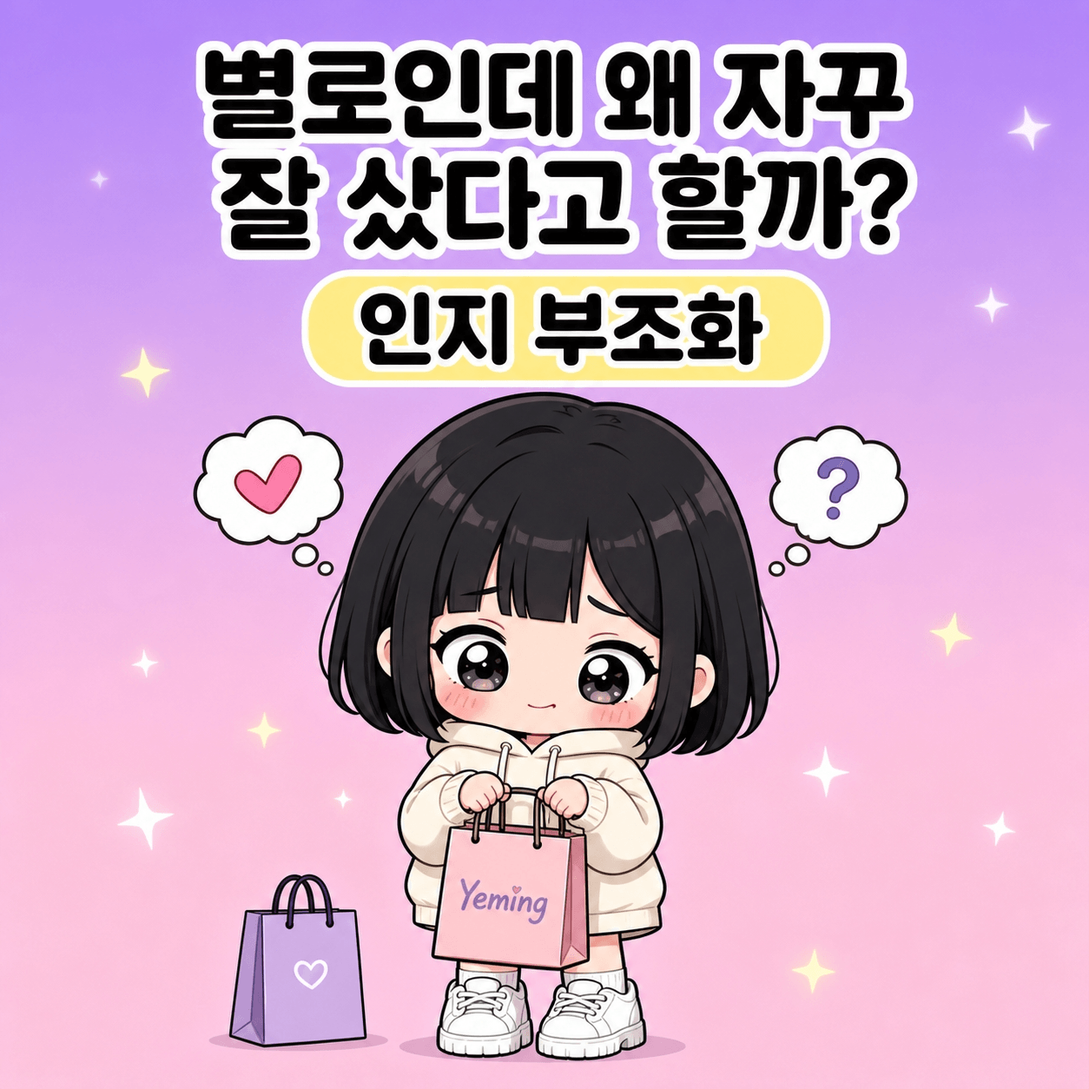
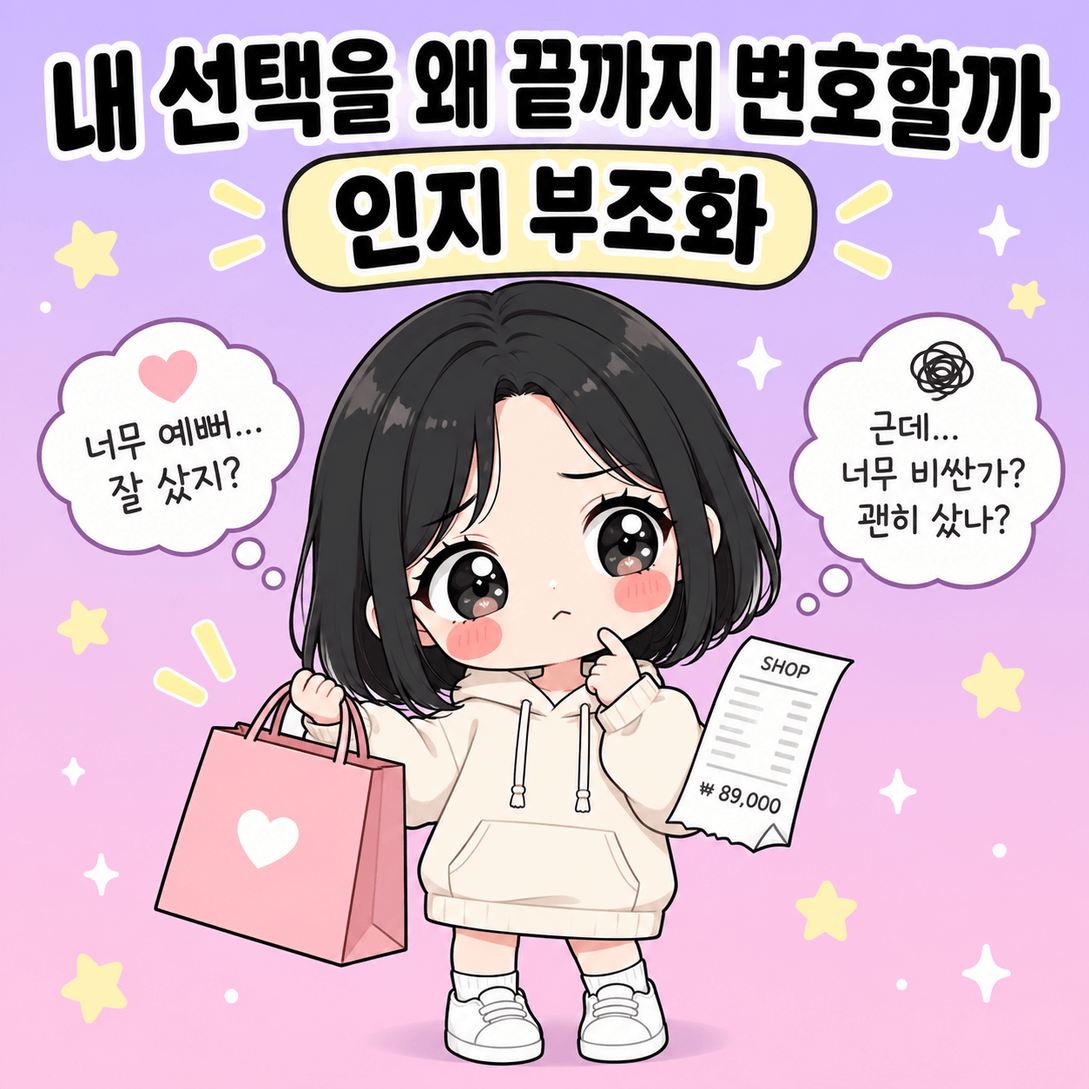
글 수정 발행

diff --git a/posts/cognitive-dissonance-justification.html b/posts/cognitive-dissonance-justification.html
@@ -6,15 +6,18 @@
   <meta name="viewport" content="width=device-width, initial-scale=1.0" />
   <title>인지 부조화로 풀어보는 내 선택을 끝까지 방어하는 마음 | 예밍이네 심리사전</title>
   <meta name="description" content="인지 부조화로 풀어보면 비싸게 산 물건을 끝까지 칭찬하는 마음이 이해돼요. 내 선택을 방어하는 심리를 일상 장면으로 풀고, 잘 다루는 법까지 챙겨가세요." />
-      <link rel="canonical" href="https://yeminga.com/posts/cognitive-dissonance-justification" />
+  <link rel="canonical" href="https://yeminga.com/posts/cognitive-dissonance-justification" />
   <meta property="og:type" content="article" />
   <meta property="og:site_name" content="예밍이네 심리사전" />
   <meta property="og:title" content="인지 부조화로 풀어보는 내 선택을 끝까지 방어하는 마음" />
   <meta property="og:description" content="인지 부조화로 풀어보면 비싸게 산 물건을 끝까지 칭찬하는 마음이 이해돼요. 내 선택을 방어하는 심리를 일상 장면으로 풀고, 잘 다루는 법까지 챙겨가세요." />
-      <meta property="og:url" content="https://yeminga.com/posts/cognitive-dissonance-justification" />
+  <meta property="og:url" content="https://yeminga.com/posts/cognitive-dissonance-justification" />
   <meta property="og:image" content="https://yeminga.com/images/thumb-cognitive-dissonance-justification.png" />
   <meta property="og:locale" content="ko_KR" />
   <link rel="stylesheet" href="/css/style.css" />
+  <!-- HEAD_ADSENSE_START -->
+  <script async src="https://pagead2.googlesyndication.com/pagead/js/adsbygoogle.js?client=ca-pub-4067927801872250" crossorigin="anonymous"></script>
+  <!-- HEAD_ADSENSE_END -->
   <script type="application/ld+json">
   {
     "@context": "https://schema.org",
@@ -29,25 +32,30 @@
         "author": { "@type": "Person", "name": "예밍이" },
         "publisher": { "@type": "Organization", "name": "예밍이네 심리사전" },
         "datePublished": "2026-07-07",
-        "dateModified": "2026-07-07"
+        "dateModified": "2026-09-07",
+        "citation": [
+          "Festinger & Carlsmith, 1959, Cognitive consequences of forced compliance, The Journal of Abnormal and Social Psychology",
+          "McGrath, 2017, Dealing with dissonance: A review of cognitive dissonance reduction, Social and Personality Psychology Compass",
+          "Vaidis et al., 2024, A Multilab Replication of the Induced-Compliance Paradigm of Cognitive Dissonance, Advances in Methods and Practices in Psychological Science"
+        ]
       },
       {
         "@type": "FAQPage",
         "mainEntity": [
           {
             "@type": "Question",
-            "name": "인지 부조화는 누구한테나 일어나나요?",
+            "name": "인지 부조화는 누구에게나 똑같이 나타나나요?",
             "acceptedAnswer": {
               "@type": "Answer",
-              "text": "네, 거의 모든 사람에게 일어나요. 생각과 행동이 어긋나는 건 살면서 늘 생기는 일이고, 그때 느끼는 불편함을 줄이려는 건 인간의 기본적인 마음 작동이거든요. 그러니 나만 합리화하나 하고 자책할 필요는 없어요."
+              "text": "그렇게 단정하기는 어려워요. 인지 부조화는 널리 연구된 개념이지만, 어떤 상황에서 얼마나 불편함을 느끼고 어떤 방식으로 줄이는지는 하나로 고정돼 있지 않아요."
             }
           },
           {
             "@type": "Question",
-            "name": "자기 합리화는 무조건 나쁜 건가요?",
+            "name": "1달러 조건이 20달러 조건보다 정말 더 재미있다고 했나요?",
             "acceptedAnswer": {
               "@type": "Answer",
-              "text": "아니에요. 되돌릴 수 없는 선택 앞에서 마음을 다독이는 합리화는 오히려 건강에 도움이 돼요. 문제가 되는 건 정말 바꿔야 할 행동까지 덮어버릴 때예요. 그래서 합리화를 없애기보다, 언제 쓰고 언제 경계할지 구분하는 게 중요해요."
+              "text": "1959년 실험의 즐거움 자기평정 평균은 1달러 조건 +1.35, 20달러 조건 -0.05였어요. 다만 이 수치는 참가자가 -5에서 +5 척도로 답한 자기평정이라는 점까지 같이 봐야 해요."
             }
           },
           {
@@ -55,7 +63,7 @@
             "name": "비싼 물건을 칭찬하는 게 거짓말인가요?",
             "acceptedAnswer": {
               "@type": "Answer",
-              "text": "거짓말은 아니에요. 본인은 진심으로 잘 샀다고 느끼거든요. 마음이 불편함을 줄이려고 평가 자체를 슬쩍 바꿔놓아서, 의식적으로 속이는 게 아니라 진짜로 그렇게 믿게 되는 거예요. 그래서 더 알아채기 어려운 거고요."
+              "text": "꼭 그렇지는 않아요. 선택 뒤 평가가 달라질 수는 있지만, 모든 사람이 같은 방식으로 자기 선택을 좋게 보는 건 아니에요. 인지 부조화는 가능한 설명 중 하나로 보는 편이 맞아요."
             }
           },
           {
@@ -63,15 +71,15 @@
             "name": "고생해서 얻은 걸 더 좋게 평가하는 것도 인지 부조화인가요?",
             "acceptedAnswer": {
               "@type": "Answer",
-              "text": "맞아요. 이렇게 힘들었는데 별로일 리 없어 하고 의미를 부여하는 거죠. 노력과 결과의 어긋남을 줄이려고 결과를 더 높게 평가하는 거예요. 힘들게 들어간 모임이나 오래 준비한 일을 과대평가하게 되는 게 다 이 원리예요."
+              "text": "그렇게 해석할 수 있는 장면이 있어요. 큰 노력과 낮은 만족이 부딪힐 때 결과의 가치를 더 높게 보는 반응이 나타날 수 있거든요. 다만 한 장면만 보고 원인을 확정하진 않는 게 좋아요."
             }
           },
           {
             "@type": "Question",
-            "name": "내가 합리화하는 중인지 어떻게 알 수 있나요?",
+            "name": "내가 합리화하는 중인지 어떻게 알아차리나요?",
             "acceptedAnswer": {
               "@type": "Answer",
-              "text": "어떤 선택을 유독 과하게 변호하고 단점은 아예 안 보려 한다면 합리화 신호일 수 있어요. 그럴 땐 단점을 일부러 한 번 인정해보세요. 인정해도 괜찮다면 진짜 좋은 선택이고, 인정하기 불편하다면 합리화 중일 가능성이 커요."
+              "text": "한 가지 신호만으로 판단하긴 어려워요. 장점과 단점을 같은 기준으로 적어보고, 결정 전에 세운 기준과 지금 붙이는 설명이 달라졌는지 비교해보면 선택을 다시 보는 데 도움이 돼요."
             }
           }
         ]
@@ -79,9 +87,6 @@
     ]
   }
   </script>
-  <!-- HEAD_ADSENSE_START -->
-  <script async src="https://pagead2.googlesyndication.com/pagead/js/adsbygoogle.js?client=ca-pub-4067927801872250" crossorigin="anonymous"></script>
-  <!-- HEAD_ADSENSE_END -->
 </head>
 <body>
   <header class="site-header">
@@ -93,11 +98,11 @@
       <input type="checkbox" id="nav-toggle" class="nav-toggle" />
       <label for="nav-toggle" class="nav-toggle-label" aria-label="메뉴 열기">☰</label>
       <nav class="main-nav" aria-label="주요 메뉴">
-        <a href="/category/consume/">소비 심리</a>
-        <a href="/category/emotion/">감정과 자아</a>
-        <a href="/category/relation/">인간관계 심리</a>
-        <a href="/about">소개</a>
-      </nav>
+  <a href="/category/consume/">소비 심리</a>
+  <a href="/category/emotion/">감정과 자아</a>
+  <a href="/category/relation/">인간관계 심리</a>
+  <a href="/about">소개</a>
+</nav>
     </div>
   </header>
 
@@ -109,136 +114,152 @@
           <h1>인지 부조화로 풀어보는 내 선택을 끝까지 방어하는 마음</h1>
           <div class="article-meta">
             <span>작성자: 예밍이</span>
-            <time datetime="2026-07-07">2026.07.07</time>
+            <time datetime="2026-07-07">2026. 7. 7.</time>
+            <span class="article-modified">수정: 2026.09.07</span>
           </div>
         </header>
 
-        <div class="article-body">
-          <div class="summary-box">
-            <strong>📌 3줄 요약</strong>
-            <p>비싸게 샀는데 막상 별로인 물건도 "그래도 잘 산 거야" 하고 칭찬하게 되는 건 인지 부조화 때문이에요. 내 생각과 행동이 어긋나면 마음이 불편해지는데, 사람은 보통 행동 대신 생각을 바꿔서 그 불편을 없애거든요. 이걸 알면 내가 왜 자꾸 후회되는 선택을 변호하는지 보이기 시작해요.</p>
-          </div>
+                <div class="article-body">
+          <!-- POST-KIND: CONCEPT -->
+<div class="summary-box">
+  <strong>📌 3줄 요약</strong>
+  <p>인지 부조화는 생각과 행동이 어긋날 때 생기는 불편함이에요. 고전 실험에선 1달러 조건이 과제를 더 좋게 평가했어요. 하지만 해소 방식은 하나가 아니어서 단정은 조심해야 해요.</p>
+</div>
 
-          <p class="hook">큰맘 먹고 지른 옷, 솔직히 별로인 거 알면서도 자꾸 "그래도 잘 샀어" 한 적 있죠.</p>
+<p class="hook">인지 부조화는 후회되는 선택을 유난히 그럴듯하게 만들 때가 있어요.</p>
 
-          <p>이상하잖아요. 마음 한구석은 "이거 좀 후회되는데" 하는데, 입으로는 자꾸 잘 샀다고 우기게 되니까요. 저도 무리해서 산 물건일수록 단점은 못 본 척하고 장점만 떠벌리더라고요. 이게 단순한 정신승리가 아니라, 사람 마음이 불편함을 처리하는 정해진 방식이에요. 그 방식에 이름이 붙어 있는데, 바로 <strong>인지 부조화</strong>예요. 혹시 후회되는 선택일수록 더 열심히 변호하고 있진 않나요?</p>
+<p>큰맘 먹고 산 옷이 막상 기대보다 별로인데도 자꾸 장점만 찾게 되는 장면이 그래요. 마음 한구석에서는 “괜히 샀나” 싶지만, 이미 한 선택을 나쁘게 평가하는 것도 불편하잖아요.</p>
 
-          <h2>인지 부조화가 뭔데요</h2>
+<p>이때 사람은 선택을 다시 보거나, 이유를 덧붙이거나, 행동을 바꾸는 등 여러 방식으로 불편함을 줄일 수 있어요. 그중 선택을 더 좋게 평가하는 방향으로 마음이 움직일 때 <strong>인지 부조화</strong>가 어떻게 작동하는지 이해하기 쉬워져요.</p>
 
-          <p>인지 부조화(cognitive dissonance)는 내 안의 생각, 믿음, 행동이 서로 어긋날 때 느끼는 불편한 마음 상태를 말해요. 심리학자 레온 페스팅거가 널리 알린 개념인데요.</p>
+<h2>인지 부조화는 생각과 행동이 어긋날 때 생겨요</h2>
 
-          <p>핵심은 사람이 이 불편함을 굉장히 싫어한다는 거예요. "나는 합리적인 사람"이라는 믿음과 "비싼데 별로인 걸 샀다"는 사실이 부딪히면 마음이 삐걱대거든요. 이 삐걱거림을 어떻게든 없애려고 우리 마음이 움직이기 시작해요.</p>
+<p>인지 부조화(cognitive dissonance)는 내 생각이나 믿음, 행동이 서로 맞지 않을 때 생기는 불편한 상태를 가리켜요. “나는 합리적으로 소비해”라는 믿음과 “비싼데 만족스럽지 않은 물건을 샀어”라는 판단이 부딪히면 마음이 매끄럽지 않게 느껴질 수 있죠.</p>
 
-          <p>여기서 흥미로운 게, 불편을 없애는 가장 쉬운 방법이 보통 "생각을 바꾸는 것"이라는 점이에요. 이미 산 물건은 못 무르니까 행동은 못 바꾸잖아요. 그래서 "사실 이거 꽤 괜찮은데?" 하고 평가를 슬쩍 바꿔버리는 거예요. 더 편한 쪽으로요.</p>
+<p>여기서 중요한 건 해소법이 하나로 정해져 있지 않다는 점이에요. 물건을 환불할 수도 있고, 다음 소비 기준을 바꿀 수도 있고, “그래도 이 장점은 괜찮아”라며 평가를 조정할 수도 있어요. 인지 부조화라는 말은 이 가운데 특정 행동 하나가 아니라, 서로 안 맞는 생각과 행동에서 생기는 긴장을 설명하는 개념에 가까워요.</p>
 
-          <p>그러니까 비싼 물건을 칭찬하는 건 거짓말이 아니라, 마음이 균형을 맞추려는 자동 작동이에요. 본인은 진심으로 잘 샀다고 느끼게 돼요. 이 부분이 인지 부조화의 핵심이자 좀 무서운 지점이에요.</p>
+<p>그래서 비싼 물건을 칭찬한다고 곧바로 거짓말이라고 볼 수는 없어요. 반대로 “진심으로 잘 샀다고 믿게 된다”고 모든 소비에 적용할 수도 없고요. 어떤 선택을 더 좋게 보는 변화는 가능한 반응 가운데 하나예요.</p>
 
-          <img src="/images/yeminga-thinking.png" alt="비싸게 산 물건을 칭찬할지 고민하는 예밍이">
+<img src="/images/yeminga-thinking.png" alt="후회되는 소비를 다시 바라보며 생각하는 예밍이">
 
-          <!-- AD:INARTICLE-BLOG-01 -->
+<!-- AD:INARTICLE-BLOG-01 -->
 
-          <h2>마음은 왜 행동 대신 생각을 바꿀까요</h2>
+<h2>왜 선택을 더 좋게 보게 될까요</h2>
 
-          <p>그럼 왜 사람은 행동을 고치는 대신 생각을 비트는 쪽을 택할까요. 여기엔 꽤 합리적인 이유가 있어요.</p>
+<p>Festinger와 Carlsmith의 1959년 실험이 이 장면을 잘 보여줘요. 스탠퍼드 남학생 71명이 참여했고 11명이 제외돼 최종 60명이 분석됐어요. 참가자들은 30분씩 두 가지 단조로운 과제를 한 뒤, 다른 참가자에게 그 일이 재미있었다고 말하는 역할을 맡았어요. 원 논문 정보는 <a href="https://pubmed.ncbi.nlm.nih.gov/13640824/?utm_source=chatgpt.com" target="_blank" rel="noopener">PubMed</a>에서 확인할 수 있어요.</p>
 
-          <p>이미 벌어진 행동은 되돌리기 어렵거든요. 돈은 이미 나갔고, 한 말은 이미 뱉었고, 보낸 시간은 안 돌아와요. 반면 생각이나 평가는 마음만 먹으면 그 자리에서 바꿀 수 있어요. 그러니 비용이 적게 드는 쪽, 즉 생각을 바꾸는 게 더 쉬운 선택이 되는 거죠.</p>
+<p>그 대가가 1달러인 조건과 20달러인 조건이 있었는데, 과제의 즐거움을 -5에서 +5로 평가하게 하자 평균은 통제 조건 -0.45, 1달러 조건 +1.35, 20달러 조건 -0.05였어요. 1달러와 20달러 조건 차이는 p=.03으로 보고됐어요. 적은 보상을 받은 쪽이 과제를 더 긍정적으로 평가한 셈이에요.</p>
 
-          <p>유명한 실험이 하나 있어요. 지루한 작업을 시킨 뒤 다른 사람에게 "재밌었다"고 거짓말하게 했는데, 적은 돈을 받은 사람일수록 그 작업을 진짜로 재밌었다고 평가했어요. 큰돈을 받은 사람은 "돈 때문에 거짓말했지" 하고 핑계가 있었지만, 적은 돈을 받은 사람은 변명거리가 없으니 "사실 재밌었나 봐" 하고 생각 자체를 바꿔버린 거예요.</p>
+<p>다만 여기서 “진짜 재미를 느끼도록 마음이 완전히 바뀌었다”고 읽으면 범위가 넓어져요. 이 연구의 핵심 결과는 과제가 얼마나 즐거웠는지 <strong>-5~+5의 11점 척도로 답한 자기평정</strong>이에요. 즉 연구가 직접 측정한 건 인터뷰에서 보고한 평가였어요.</p>
 
-          <p>제가 이 실험 보고 좀 소름 돋았던 게요. 우리가 어떤 일을 정당화할 명분이 없을수록, 마음은 더 적극적으로 생각을 바꿔서 스스로를 설득한다는 거예요. 그러니까 "내가 왜 이걸 했지?" 싶은 일일수록 오히려 더 그럴듯한 이유를 만들어 붙이게 돼요.</p>
+<h2>비싼 소비 말고도 비슷한 장면이 있어요</h2>
 
-          <table>
-            <tr>
-              <th>상황</th>
-              <th>어긋나는 두 가지</th>
-              <th>흔히 택하는 해소법</th>
-            </tr>
-            <tr>
-              <td>비싼데 별로인 물건</td>
-              <td>"합리적인 나" vs "후회되는 소비"</td>
-              <td>"사실 잘 산 거야"로 평가 바꾸기</td>
-            </tr>
-            <tr>
-              <td>힘들게 들어간 모임</td>
-              <td>"고생함" vs "별로 안 좋음"</td>
-              <td>"고생한 만큼 가치 있어"로 의미 부여</td>
-            </tr>
-            <tr>
-              <td>몸에 나쁜 습관</td>
-              <td>"건강 챙겨야지" vs "계속함"</td>
-              <td>"이 정도는 괜찮아"로 위험 축소</td>
-            </tr>
-          </table>
+<p>이미 돈이나 시간을 써버린 상황에서는 선택을 다시 평가하는 마음이 더 눈에 띌 수 있어요. 여기서 이미 쓴 비용 때문에 멈추기 어려운 <a href="/posts/sunk-cost-fallacy-cant-stop">매몰 비용 때문에 못 멈추는 마음</a>과는 구분할 필요가 있어요. 매몰 비용은 앞으로의 판단에 이미 써버린 비용을 끌어들이는 오류에 가깝고, 인지 부조화는 서로 안 맞는 생각과 행동에서 생기는 불편함에 초점이 있어요.</p>
 
-          <!-- AD:INARTICLE-BLOG-02 -->
+<table>
+  <thead>
+    <tr>
+      <th>상황</th>
+      <th>서로 부딪히는 생각</th>
+      <th>가능한 반응</th>
+    </tr>
+  </thead>
+  <tbody>
+    <tr>
+      <td>비싼데 아쉬운 물건</td>
+      <td>합리적인 소비 vs 후회되는 선택</td>
+      <td>장점을 더 크게 보기</td>
+    </tr>
+    <tr>
+      <td>힘들게 들어간 모임</td>
+      <td>큰 노력 vs 낮은 만족</td>
+      <td>가치를 더 높게 보기</td>
+    </tr>
+    <tr>
+      <td>바꾸고 싶은 습관</td>
+      <td>바꾸려는 생각 vs 계속하는 행동</td>
+      <td>이유를 덧붙이거나 행동 바꾸기</td>
+    </tr>
+  </tbody>
+</table>
 
-          <h2>이게 꼭 나쁜 것만은 아니에요</h2>
+<p>이런 반응이 보인다고 해서 선택이 틀렸다는 뜻은 아니에요. 중요한 건 “내가 이 선택을 왜 좋게 보고 있는지”를 한 번 더 분리해서 보는 거예요. 되돌릴 수 없는 부분과 지금 바꿀 수 있는 부분을 나누면, 단순한 자기비난보다 다음 판단에 쓸 정보가 더 또렷해져요.</p>
 
-          <p>인지 부조화를 그냥 "자기 합리화하는 못난 버릇"으로만 보기 쉬운데요. 예밍이 관점에선 여기에도 묘한 순기능이 있어요.</p>
+<div class="warning-box">
+  <strong>⚠ 이건 주의해요</strong>
+  <p>합리화가 바꿀 수 있는 행동까지 가리는 순간은 따로 살펴볼 필요가 있어요. 손해나 위험을 계속 작게만 보게 된다면 “선택을 지켜야 한다”보다 “지금 수정할 수 있는 게 있나”를 확인해보는 편이 좋아요.</p>
+</div>
 
-          <p>생각해보면, 이미 어쩔 수 없는 선택을 두고두고 후회만 하는 것도 괴롭잖아요. 무를 수 없는 일이라면 "그래도 이런 점은 좋았어" 하고 마음을 다독이는 게 정신 건강엔 나을 때가 있어요. 인지 부조화 해소는 사실 우리 마음을 지키는 일종의 방어 장치이기도 해요.</p>
+<h2>태도를 바꾸는 게 언제나 답은 아니에요</h2>
 
-          <p>특히 큰 결정일수록 그래요. 진학, 이직, 이사처럼 되돌리기 힘든 선택을 한 뒤엔 "내 선택이 맞았다"고 믿는 편이 그 길을 잘 걸어가는 데 도움이 되거든요. 매 순간 "이거 잘못한 거 아냐?" 하면 한 발도 못 나가니까요.</p>
+<p>2017년 McGrath의 리뷰는 인지 부조화를 줄이는 방식이 태도 변경 하나로 고정되지 않는다고 정리해요. 생각을 바꾸는 것뿐 아니라 다른 해소 전략도 있고, 어떤 상황에서 어떤 전략을 택하는지는 더 살펴봐야 할 문제라는 거예요. 원문은 <a href="https://doi.org/10.1111/spc3.12362" target="_blank" rel="noopener">2017년 리뷰 논문</a>에서 확인할 수 있어요.</p>
 
-          <img src="/images/yeminga-curious.png" alt="자기 합리화의 좋은 면을 들여다보는 예밍이">
+<p>고전적인 실험 틀이 다른 연구에서도 얼마나 잘 이어지는지도 따져볼 지점이 있어요. Vaidis 외의 2024년 다기관 연구는 39개 연구실, 19개국, 14개 언어에서 4,898명을 모집해 유도순응(induced compliance), 즉 자신의 태도와 어긋나는 행동을 하게 한 뒤 반응을 보는 실험 틀을 다시 검토했어요. 행동 뒤 태도를 비교한 주 분석 3,822명에서 높은 선택권과 낮은 선택권 조건의 평균은 2.60과 2.66이었고, 차이가 얼마나 큰지 나타내는 값인 d는 -0.03, p=.79였어요. 예상한 태도 차이가 뚜렷하게 나타나지 않았다는 뜻이에요. 논문 페이지는 <a href="https://journals.sagepub.com/doi/10.1177/25152459231213375" target="_blank" rel="noopener">SAGE</a>에서 볼 수 있어요.</p>
 
-          <p>문제가 되는 건 이 합리화가 정말 바꿔야 할 행동까지 덮어버릴 때예요. 몸에 나쁜 습관을 "이 정도는 괜찮아"로 정당화하거나, 잘못된 판단을 인정 안 하고 끝까지 우기게 만들 때요. 그러니 핵심은 이 작동을 없애는 게 아니라, 언제 마음을 다독이는 데 쓰고 언제 경계해야 하는지 구분하는 거예요.</p>
+<p>이 연구가 1959년의 1달러·20달러 실험을 그대로 다시 한 것은 아니에요. 그래서 “고전 실험이 틀렸다”고 결론 내리기보다, 인지 부조화가 나타나는 조건과 해소 방식이 생각보다 단순하지 않다고 보는 편이 정확해요.</p>
 
-          <div class="tip-box">
-            <strong>💡 예밍이 한마디</strong>
-            <p>합리화 자체가 나쁜 게 아니에요. 바꿀 수 없는 일이면 마음을 다독이는 데 쓰고, 바꿀 수 있는 일이면 합리화 대신 행동을 고치는 쪽으로. 이 구분이 핵심이에요.</p>
-          </div>
+<img src="/images/cognitive-dissonance-justification-fig01.png" alt="높은 선택권과 낮은 선택권의 태도 평균을 비교한 도해">
 
-          <h2>내 합리화를 알아채는 법</h2>
+<p>그렇다면 불편함을 피하려고 생각을 바꾸는 것과, 감정을 다루려고 의도적으로 해석을 바꾸는 건 같은 걸까요. 이름은 비슷해 보여도 쓰이는 맥락은 달라요. 그 둘이 어디서 갈리는지가 다음으로 궁금해져요.</p>
 
-          <p>그럼 이 마음의 작동을 어떻게 다루면 좋을까요. 실제로 굴려보고 도움 됐던 방법들 풀어볼게요.</p>
+<p><a class="inline-cta" href="/posts/cognitive-reappraisal-emotion">인지 재평가와 차이 확인하기</a></p>
 
-          <p>첫째, "내가 지금 이걸 변호하고 있나?"를 스스로 물어보세요. 어떤 선택을 유독 열심히 칭찬하고 있다면, 오히려 그게 불편함을 덮으려는 신호일 수 있거든요. 저는 뭔가를 과하게 잘했다고 우기고 있을 때, 잠깐 멈추고 "진짜 그런가, 아니면 후회를 가리는 건가" 하고 들여다봐요.</p>
+<h2>내 합리화를 알아채는 데는 기준이 필요해요</h2>
 
-          <p>둘째, 단점을 일부러 한 번 인정해보세요. 합리화는 단점을 안 보이게 가리는 건데, "이 부분은 좀 아쉽긴 해"라고 한 번 인정하면 균형이 잡혀요. 신기하게도 단점을 인정해도 세상이 안 무너지더라고요. 오히려 다음 선택을 더 정확하게 만들어줘요.</p>
+<p>원인 설명은 하나로 고정되지 않아도, 선택을 점검하는 방법은 만들 수 있어요. 검증된 치료법이라기보다 일상에서 써볼 수 있는 확인 장치에 가까워요.</p>
 
-          <p>셋째, 결정 전에 기준을 미리 적어두세요. 사고 나서 합리화하기 전에, "이건 ○○ 때문에 산다"는 이유를 미리 정해두면 나중에 마음이 슬쩍 평가를 바꾸려 할 때 알아채기 쉬워요. 체감상 이게 충동적인 합리화를 줄이는 데 제일 효과적이었어요.</p>
+<p>유독 어떤 선택의 장점만 길게 늘어놓고 있다면 “지금 장점과 단점을 같은 기준으로 보고 있나”를 적어보세요. 단점을 하나 인정한다고 선택 전체가 실패가 되는 건 아니에요. 오히려 만족한 부분과 아쉬운 부분을 분리해두면 다음 선택에서 무엇을 바꿀지 찾기 쉬워져요.</p>
 
-          <div class="warning-box">
-            <strong>⚠ 이건 주의해요</strong>
-            <p>합리화로 덮으면 안 되는 영역이 있어요. 건강을 해치는 습관이나 반복되는 잘못된 판단을 "이 정도는 괜찮아"로 계속 정당화하면, 진짜 바꿔야 할 때를 놓쳐요. 마음을 다독이는 합리화와 위험을 가리는 합리화는 구분해야 해요.</p>
-          </div>
+<p>결정 전 기준을 미리 적는 방법도 있어요. 가격, 사용 빈도, 꼭 필요한 기능처럼 내가 중요하게 보는 조건을 먼저 남겨두면, 결정 뒤 평가가 바뀌었을 때 처음 기준과 비교해볼 수 있거든요. “그때의 기준”과 “지금의 설명”을 나란히 놓는 식이에요.</p>
 
-          <img src="/images/yeminga-proud.png" alt="단점도 인정하며 균형 잡힌 선택을 하는 예밍이">
+<p>마지막으로 바꿀 수 있는 것과 이미 지나간 것을 나눠보세요. 이미 쓴 돈이나 시간은 되돌릴 수 없지만, 다음 결제나 다음 행동은 바꿀 수 있어요. 인지 부조화를 없애려 하기보다, 지금의 설명이 다음 행동을 더 정확하게 고르는 데 도움이 되는지 살펴보는 쪽이 현실적이에요.</p>
 
-          <h2>자주 묻는 질문</h2>
+<img src="/images/yeminga-proud.png" alt="장단점을 나눠 적으며 선택 기준을 정리한 예밍이">
 
-          <div class="faq-item">
-            <h3>인지 부조화는 누구한테나 일어나나요?</h3>
-            <p>네, 거의 모든 사람에게 일어나요. 생각과 행동이 어긋나는 건 살면서 늘 생기는 일이고, 그때 느끼는 불편함을 줄이려는 건 인간의 기본적인 마음 작동이거든요. 그러니 "나만 합리화하나" 하고 자책할 필요는 없어요.</p>
-          </div>
+<!-- AD:INARTICLE-BLOG-02 -->
 
-          <div class="faq-item">
-            <h3>자기 합리화는 무조건 나쁜 건가요?</h3>
-            <p>아니에요. 되돌릴 수 없는 선택 앞에서 마음을 다독이는 합리화는 오히려 건강에 도움이 돼요. 문제가 되는 건 정말 바꿔야 할 행동까지 덮어버릴 때예요. 그래서 합리화를 없애기보다, 언제 쓰고 언제 경계할지 구분하는 게 중요해요.</p>
-          </div>
+<h2>자주 묻는 질문</h2>
 
-          <div class="faq-item">
-            <h3>비싼 물건을 칭찬하는 게 거짓말인가요?</h3>
-            <p>거짓말은 아니에요. 본인은 진심으로 잘 샀다고 느끼거든요. 마음이 불편함을 줄이려고 평가 자체를 슬쩍 바꿔놓아서, 의식적으로 속이는 게 아니라 진짜로 그렇게 믿게 되는 거예요. 그래서 더 알아채기 어려운 거고요.</p>
-          </div>
+<div class="faq-item">
+  <h3>인지 부조화는 누구에게나 똑같이 나타나나요?</h3>
+  <p>그렇게 단정하기는 어려워요. 인지 부조화는 널리 연구된 개념이지만, 어떤 상황에서 얼마나 불편함을 느끼고 어떤 방식으로 줄이는지는 하나로 고정돼 있지 않아요.</p>
+</div>
 
-          <div class="faq-item">
-            <h3>고생해서 얻은 걸 더 좋게 평가하는 것도 인지 부조화인가요?</h3>
-            <p>맞아요. "이렇게 힘들었는데 별로일 리 없어" 하고 의미를 부여하는 거죠. 노력과 결과의 어긋남을 줄이려고 결과를 더 높게 평가하는 거예요. 힘들게 들어간 모임이나 오래 준비한 일을 과대평가하게 되는 게 다 이 원리예요.</p>
-          </div>
+<div class="faq-item">
+  <h3>1달러 조건이 20달러 조건보다 정말 더 재미있다고 했나요?</h3>
+  <p>1959년 실험의 즐거움 자기평정 평균은 1달러 조건 +1.35, 20달러 조건 -0.05였어요. 다만 이 수치는 참가자가 -5에서 +5 척도로 답한 자기평정이라는 점까지 같이 봐야 해요.</p>
+</div>
 
-          <div class="faq-item">
-            <h3>내가 합리화하는 중인지 어떻게 알 수 있나요?</h3>
-            <p>어떤 선택을 유독 과하게 변호하고 단점은 아예 안 보려 한다면 합리화 신호일 수 있어요. 그럴 땐 단점을 일부러 한 번 인정해보세요. 인정해도 괜찮다면 진짜 좋은 선택이고, 인정하기 불편하다면 합리화 중일 가능성이 커요.</p>
-          </div>
+<div class="faq-item">
+  <h3>비싼 물건을 칭찬하는 게 거짓말인가요?</h3>
+  <p>꼭 그렇지는 않아요. 선택 뒤 평가가 달라질 수는 있지만, 모든 사람이 같은 방식으로 자기 선택을 좋게 보는 건 아니에요. 인지 부조화는 가능한 설명 중 하나로 보는 편이 맞아요.</p>
+</div>
 
-          <div class="notice-box">
-            <strong>📝 참고 안내</strong>
-            <p>이 글은 심리학 개념을 쉽게 소개하기 위한 것으로, 전문적인 심리 진단이나 치료를 대신하지 않아요. 마음에 어려움이 있다면 전문가와 상담해보시길 권해요.</p>
-          </div>
+<div class="faq-item">
+  <h3>고생해서 얻은 걸 더 좋게 평가하는 것도 인지 부조화인가요?</h3>
+  <p>그렇게 해석할 수 있는 장면이 있어요. 큰 노력과 낮은 만족이 부딪힐 때 결과의 가치를 더 높게 보는 반응이 나타날 수 있거든요. 다만 한 장면만 보고 원인을 확정하진 않는 게 좋아요.</p>
+</div>
 
-          <!-- AD:DISPLAY-BLOG-BOTTOM -->
+<div class="faq-item">
+  <h3>내가 합리화하는 중인지 어떻게 알아차리나요?</h3>
+  <p>한 가지 신호만으로 판단하긴 어려워요. 장점과 단점을 같은 기준으로 적어보고, 결정 전에 세운 기준과 지금 붙이는 설명이 달라졌는지 비교해보면 선택을 다시 보는 데 도움이 돼요.</p>
+</div>
+
+<div class="ref-box">
+  <strong>📚 참고 자료</strong>
+  <ul>
+    <li><a href="https://pubmed.ncbi.nlm.nih.gov/13640824/?utm_source=chatgpt.com" target="_blank" rel="noopener">J Abnorm Soc Psychol</a> — Festinger &amp; Carlsmith, 1959, 1달러·20달러 조건의 자기평정</li>
+    <li><a href="https://doi.org/10.1111/spc3.12362" target="_blank" rel="noopener">Social and Personality Psychology Compass</a> — McGrath, 2017, 여러 부조화 해소 전략</li>
+    <li><a href="https://journals.sagepub.com/doi/10.1177/25152459231213375" target="_blank" rel="noopener">AMPPS</a> — Vaidis 외, 2024, 다기관 유도순응 재검토</li>
+  </ul>
+</div>
+
+<div class="notice-box">
+  <strong>📝 참고 안내</strong>
+  <p>1959년 실험은 스탠퍼드 남학생 표본과 자기평정을 사용했고, 2024년 다기관 연구는 같은 1달러·20달러 절차를 직접 재현한 연구가 아니에요. 소비나 관계에서 후회되는 선택이 반복될 때도 한 장면만으로 “인지 부조화 때문”이라고 단정하기보다, 바꿀 수 있는 행동과 다른 설명을 함께 살펴보는 게 좋아요.</p>
+</div>
+
+<!-- AD:DISPLAY-BLOG-BOTTOM -->
         </div>
 
         <!-- RELATED_START -->

diff --git a/category/emotion/index.html b/category/emotion/index.html
@@ -123,7 +123,7 @@
             <div class="card-body">
               <span class="badge badge--emotion">감정과 자아</span>
               <h2 class="card-title">인지 부조화로 풀어보는 내 선택을 끝까지 방어하는 마음</h2>
-              <p class="card-excerpt">비싸게 샀는데 별로인 물건도 자꾸 잘 샀다고 칭찬하게 되는 건 인지 부조화 때문이에요. 마음이 행동 대신 생각을 바꿔 불편을 없애는 원리와, 이 합리화를 알아채고 다루는 법을 풀어봤어요.</p>
+              <p class="card-excerpt">비싸게 산 물건을 자꾸 잘 샀다고 변호하는 마음을 인지 부조화로 풀어요. 1959년 1달러·20달러 실험과 2024년 다기관 재현 결과를 함께 보고, 합리화를 알아채는 법까지 정리했어요.</p>
               <div class="card-meta">
                 <span>예밍이</span>
                 <time datetime="2026-07-07">2026.07.07</time>
